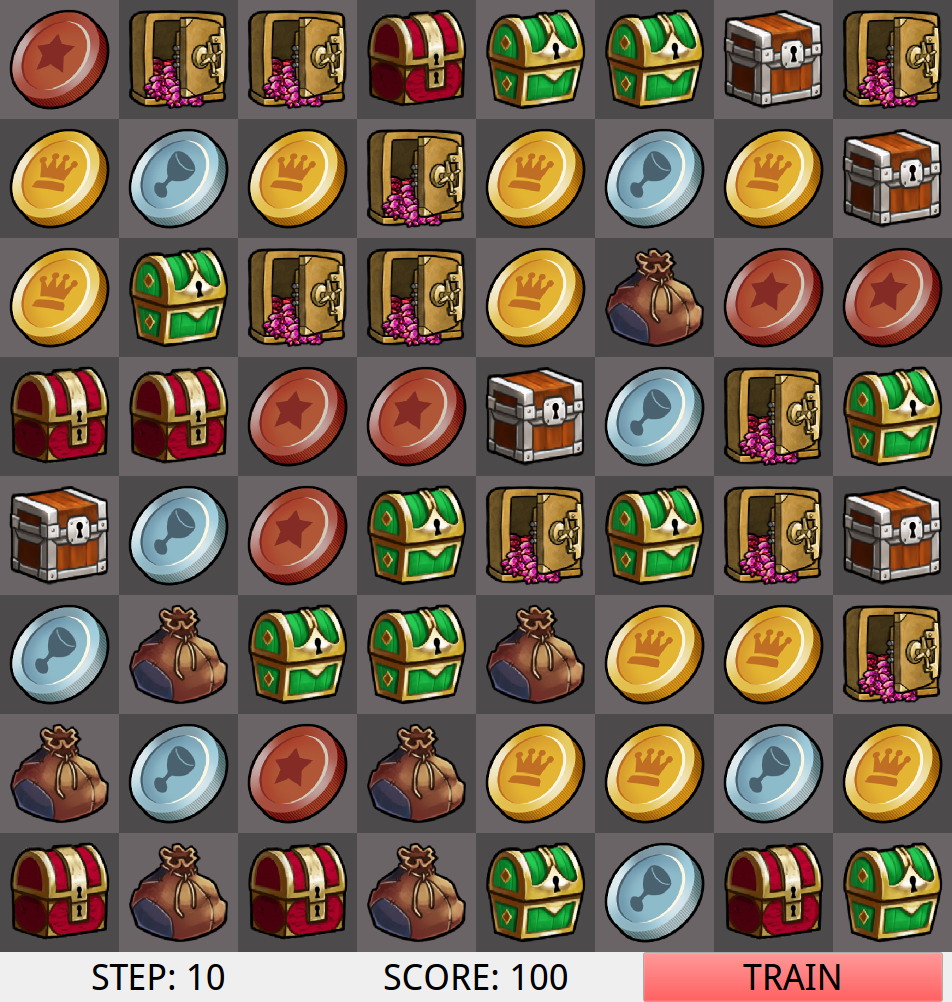
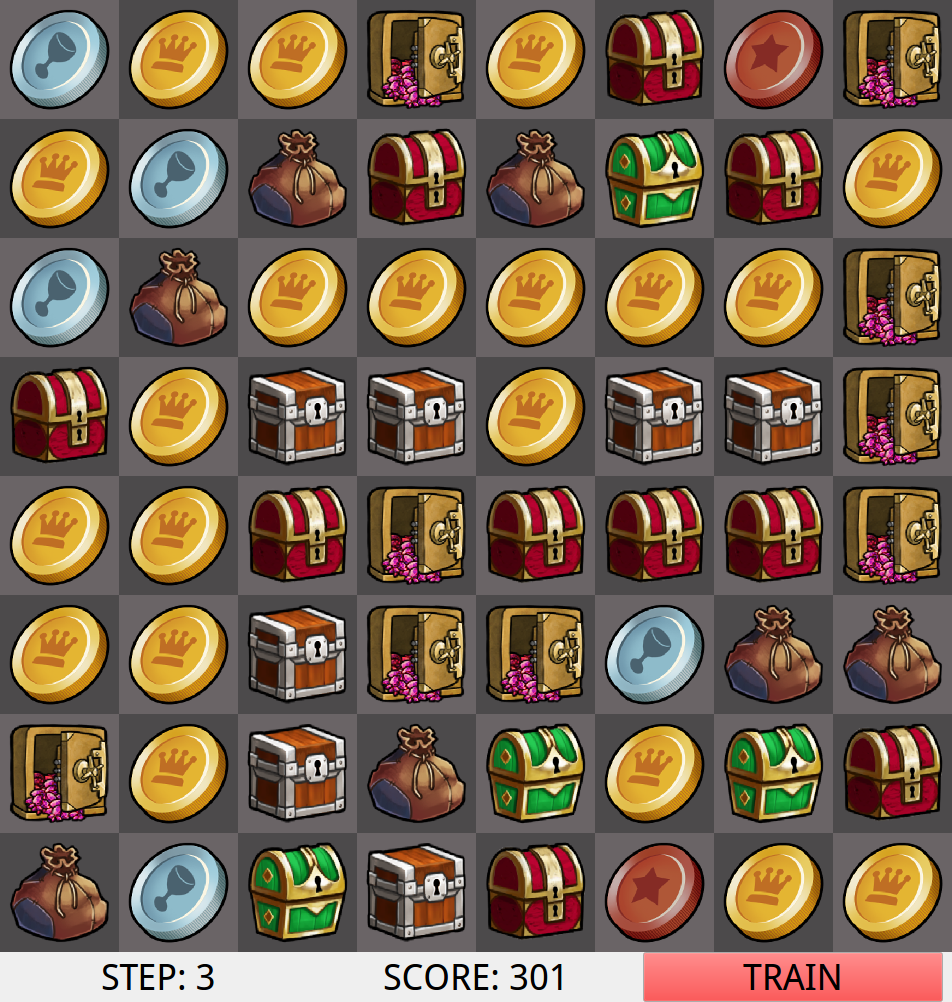
pyqt ui worked

diff --git a/auto_match_game/envs/auto_match_game_env.py b/auto_match_game/envs/auto_match_game_env.py
@@ -1,8 +1,50 @@
-import sys
 import gym
-from gym import error, spaces, utils
-from gym.utils import seeding
+from gym import spaces
+import os
+import numpy as np
+from PyQt5.QtGui import QPixmap
+from auto_match_game.ui.config import AutoMatchGameUIConfig as UIC
+from auto_match_game.envs.config import AutoMatchGameEnvConfig as EC
+from reward_grid.config import RewardGridConfig as RGC
+
 from auto_match_game.ui.auto_match_game_ui import AutoMatchGameUI
+from reward_grid.net_eval import get_reward_grid_roi
+
+import torch
+
+from PyQt5.QtCore import QThread
+from PyQt5.QtCore import pyqtSignal
+
+
+class AutoMatchGameThread(QThread):
+    step_signal = pyqtSignal(np.ndarray)
+    reset_signal = pyqtSignal()
+    render_signal = pyqtSignal()
+
+    def __init__(self, env):
+        super(AutoMatchGameThread, self).__init__()
+        self.env = env
+        self.observation = None
+        self.reward = None
+        self.done = False
+        self.info = None
+
+    def run(self):
+        for i in range(EC.train_max_epochs):
+            self.reset_signal.emit()
+            for j in range(EC.train_max_steps):
+                self.render_signal.emit()
+                action = self.env.action_space.sample()
+                self.step_signal.emit(action)
+                QThread.msleep(500)
+                if self.done:
+                    print(f'Epoch {i:03}, Step {j:03} steps, Reward is {self.reward}.')
+                    break
+        print('Train done.')
+        self.stop()
+
+    def stop(self):
+        self.quit()
 
 
 class AutoMatchGameEnv(gym.Env):
@@ -13,27 +55,95 @@ class AutoMatchGameEnv(gym.Env):
         self.ui.show()
         self.ui.train_button.clicked.connect(self.train)
 
-    def step(self, action):
-        observation, reward, done, info = 0, 0, False, 0
-        return observation, reward, done, info
+        self.max_epochs = EC.train_max_epochs
+        self.max_steps = EC.train_max_steps
 
-    def reset(self):
-        self.ui.reset()
+        self.game_steps = EC.game_steps
 
-    def render(self, mode='human'):
-        pass
+        self.reward_grid_net = torch.load(RGC.reward_grid_net_save_path)
+        self.reward_grid_net.to(self.reward_grid_net.device)
+        self.reward_grid_net.eval()
+
+        self.action_space = spaces.MultiDiscrete(np.array([EC.grid_row, EC.grid_col, EC.direction]))
+
+        self.grid_result = []
 
     def train(self):
-        epochs = 1000
-        time_steps = 1000
-        for epoch in range(epochs):
-            self.reset()
-            for time_step in range(time_steps):
-                self.render()
-                action = None
-                observation, reward, done, info = self.step(action)
-                if time_step == 100:
-                    done = True
-                if done:
-                    print(f'Epoch: {epoch:03}, Stop after {time_step:03} steps, Reward is {reward}.')
-                    break
+        self.ui.amg_thread = AutoMatchGameThread(self)
+
+        self.ui.amg_thread.step_signal.connect(self.step)
+        self.ui.amg_thread.reset_signal.connect(self.reset)
+        self.ui.amg_thread.render_signal.connect(self.render)
+
+        self.ui.amg_thread.start()
+
+    def step(self, action):
+        self.generate_grid_result()
+        x, y, direction = action
+        flag1 = False
+        if action[-1] == 0:
+            if x - 1 >= 0:
+                flag1 = True
+                self.grid_result[x - 1][y], self.grid_result[x][y] = self.grid_result[x][y], self.grid_result[x - 1][y]
+        if action[-1] == 1:
+            if y + 1 <= EC.grid_col - 1:
+                flag1 = True
+                self.grid_result[x][y + 1], self.grid_result[x][y] = self.grid_result[x][y], self.grid_result[x][y + 1]
+        if action[-1] == 2:
+            if x + 1 <= EC.grid_row - 1:
+                flag1 = True
+                self.grid_result[x + 1][y], self.grid_result[x][y] = self.grid_result[x][y], self.grid_result[x + 1][y]
+        if action[-1] == 3:
+            if y - 1 >= 0:
+                flag1 = True
+                self.grid_result[x][y - 1], self.grid_result[x][y] = self.grid_result[x][y], self.grid_result[x][y - 1]
+
+        # if flag1:
+        #     self.calc_reward()
+        #     self.game_steps -= 1
+        self.calc_reward()
+        self.game_steps -= 1
+
+        if self.game_steps == 0:
+            self.ui.amg_thread.done = True
+
+    def reset(self):
+        self.game_steps = EC.game_steps
+        self.ui.amg_thread.done = False
+        for position in self.ui.positions:
+            pick_num = np.random.randint(0, len(self.ui.ref_images))
+            pixmap = QPixmap(os.path.join(UIC.reward_ref_image_path, self.ui.ref_images[int(pick_num)]))
+            pixmap = pixmap.scaled(*UIC.scale_size)
+            self.ui.label_list[position[0] * UIC.reward_row + position[1]].setPixmap(pixmap)
+        self.generate_grid_result()
+
+    def render(self, mode='human'):
+        self.ui.step_label.setText(f'STEP: {self.game_steps}')
+        self.ui.score_label.setText(f'SCORE: {self.ui.amg_thread.reward}')
+        for position in self.ui.positions:
+            pixmap = QPixmap(os.path.join(UIC.reward_ref_image_path, self.ui.ref_images[int(self.grid_result[position[0]][position[1]])]))
+            pixmap = pixmap.scaled(*UIC.scale_size)
+            self.ui.label_list[position[0] * UIC.reward_row + position[1]].setPixmap(pixmap)
+
+    def generate_grid_result(self):
+        self.grid_result = []
+        pix = self.ui.grab()
+        pix.save(UIC.screen_output_path)
+        reward_grid_roi = get_reward_grid_roi(UIC.screen_output_path, UIC.crop_box)
+
+        with torch.no_grad():
+            for row_item in range(RGC.reward_grid_row):
+                data = reward_grid_roi[row_item * RGC.reward_grid_col:(row_item + 1) * RGC.reward_grid_col]
+                data = torch.from_numpy(data).float()
+                data = data.to(self.reward_grid_net.device)
+                output = self.reward_grid_net(data)
+                result = torch.argmax(output, dim=1)
+                result = result.cpu().numpy()
+                self.grid_result.append(result)
+        self.grid_result = np.array(self.grid_result, dtype=np.int).transpose()
+
+    def calc_reward(self):
+        self.ui.amg_thread.reward = 0
+        reward_score = [i + 1 for i in range(len(self.ui.ref_images))]
+        for i in range(len(self.ui.ref_images)):
+            self.ui.amg_thread.reward += reward_score[i] * len(self.grid_result[np.where(self.grid_result == i)])

diff --git a/auto_match_game/ui/auto_match_game_ui.py b/auto_match_game/ui/auto_match_game_ui.py
@@ -14,26 +14,22 @@ from PyQt5.QtGui import QPixmap
 from PyQt5.QtGui import QPalette
 from PyQt5.QtGui import QColor
 from PyQt5.QtCore import Qt
-from PyQt5.QtCore import QThread
-from PyQt5.QtCore import pyqtSignal
 
 from auto_match_game.ui.config import AutoMatchGameUIConfig as UIC
 from reward_grid.config import RewardGridConfig as RGC
-from reward_grid.net_eval import get_reward_grid_roi
-
-import torch
 
 
 class AutoMatchGameUI(QWidget):
     def __init__(self):
         super().__init__()
-        self.ref_images = os.listdir(UIC.reward_ref_image_path)
-        self.positions = [(i, j) for i in range(UIC.reward_row) for j in range(UIC.reward_col)]
-        self.grid_result = []
+        self.ref_images = []
 
-        self.reward_grid_net = torch.load(RGC.reward_grid_net_save_path)
-        self.reward_grid_net.to(self.reward_grid_net.device)
-        self.reward_grid_net.eval()
+        for reward_item in RGC.reward_name:
+            for ref_item in os.listdir(UIC.reward_ref_image_path):
+                if reward_item in ref_item:
+                    self.ref_images.append(ref_item)
+
+        self.positions = [(i, j) for i in range(UIC.reward_row) for j in range(UIC.reward_col)]
 
         self.widget1 = QWidget(self)
         self.widget2 = QWidget(self)
@@ -47,6 +43,7 @@ class AutoMatchGameUI(QWidget):
         self.train_button = QPushButton()
 
         self.label_list = []
+
         self.init_ui()
 
     def init_ui(self):
@@ -85,8 +82,8 @@ class AutoMatchGameUI(QWidget):
 
             self.grid_layout.addWidget(lbl, *position)
 
-        self.step_label.setText(f'STEP: 10')
-        self.score_label.setText(f'SCORE: 100')
+        self.step_label.setText(f'STEP: None')
+        self.score_label.setText(f'SCORE: None')
         self.train_button.setText(f'TRAIN')
         font = QFont()
         font.setPixelSize(36)
@@ -114,34 +111,6 @@ class AutoMatchGameUI(QWidget):
         cp = QDesktopWidget().availableGeometry().center()
         qr.moveCenter(cp)
         self.move(qr.topLeft())
-
-    def generate_grid_result(self):
-        self.grid_result = []
-        pix = self.grab()
-        pix.save(UIC.screen_output_path)
-        reward_grid_roi = get_reward_grid_roi(UIC.screen_output_path, UIC.crop_box)
-
-        with torch.no_grad():
-            for row_item in range(RGC.reward_grid_row):
-                data = reward_grid_roi[row_item * RGC.reward_grid_col:(row_item + 1) * RGC.reward_grid_col]
-                data = torch.from_numpy(data).float()
-                data = data.to(self.reward_grid_net.device)
-                output = self.reward_grid_net(data)
-                result = torch.argmax(output, dim=1)
-                result = result.cpu().numpy()
-                self.grid_result.append(result)
-        self.grid_result = np.array(self.grid_result, dtype=np.int).transpose()
-        print(self.grid_result)
-
-    def reset(self):
-        for position in self.positions:
-            pick_num = np.random.randint(0, len(self.ref_images))
-            pixmap = QPixmap(os.path.join(UIC.reward_ref_image_path, self.ref_images[int(pick_num)]))
-            pixmap = pixmap.scaled(*UIC.scale_size)
-
-            self.label_list[position[0] * UIC.reward_row + position[1]].setPixmap(pixmap)
-            lbl = QLabel(self)
-            lbl.setAlignment(Qt.AlignCenter)
 
 
 if __name__ == '__main__':

diff --git a/auto_match_game/envs/config.py b/auto_match_game/envs/config.py
@@ -1,0 +1,10 @@
+class AutoMatchGameEnvConfig:
+    train_max_epochs = 5
+    train_max_steps = 10
+
+    game_steps = 10
+
+    grid_row = 8
+    grid_col = 8
+    direction = 4
+    reward_category = 8

diff --git a/main.py b/main.py
@@ -7,3 +7,4 @@ if __name__ == '__main__':
     app = QApplication(sys.argv)
     env = gym.make('auto-match-game-v0')
     sys.exit(app.exec_())
+
